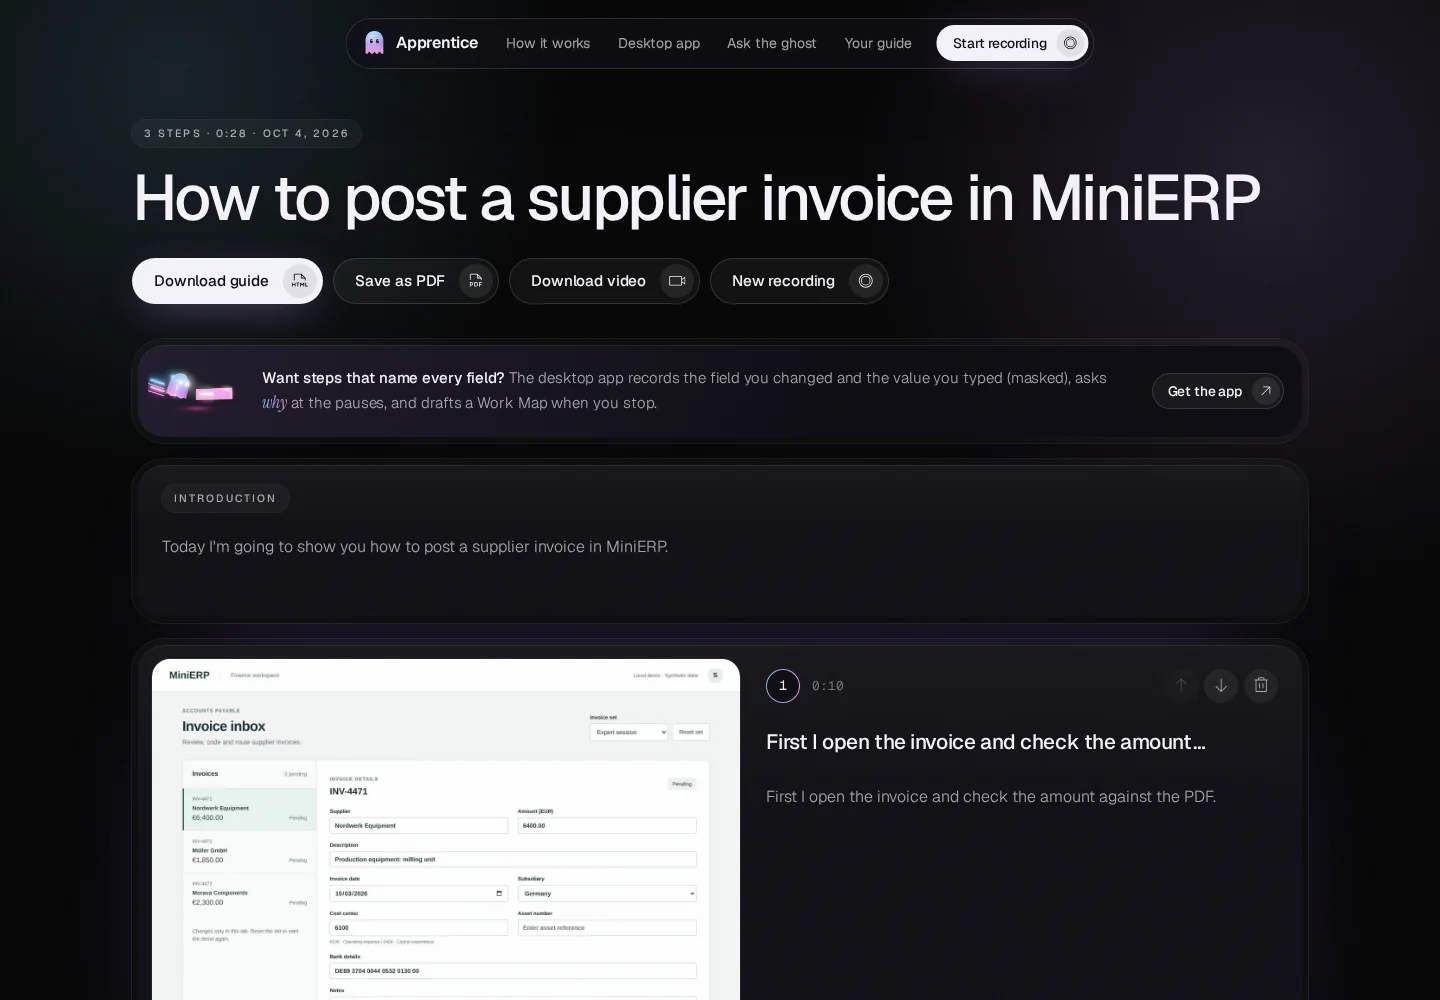
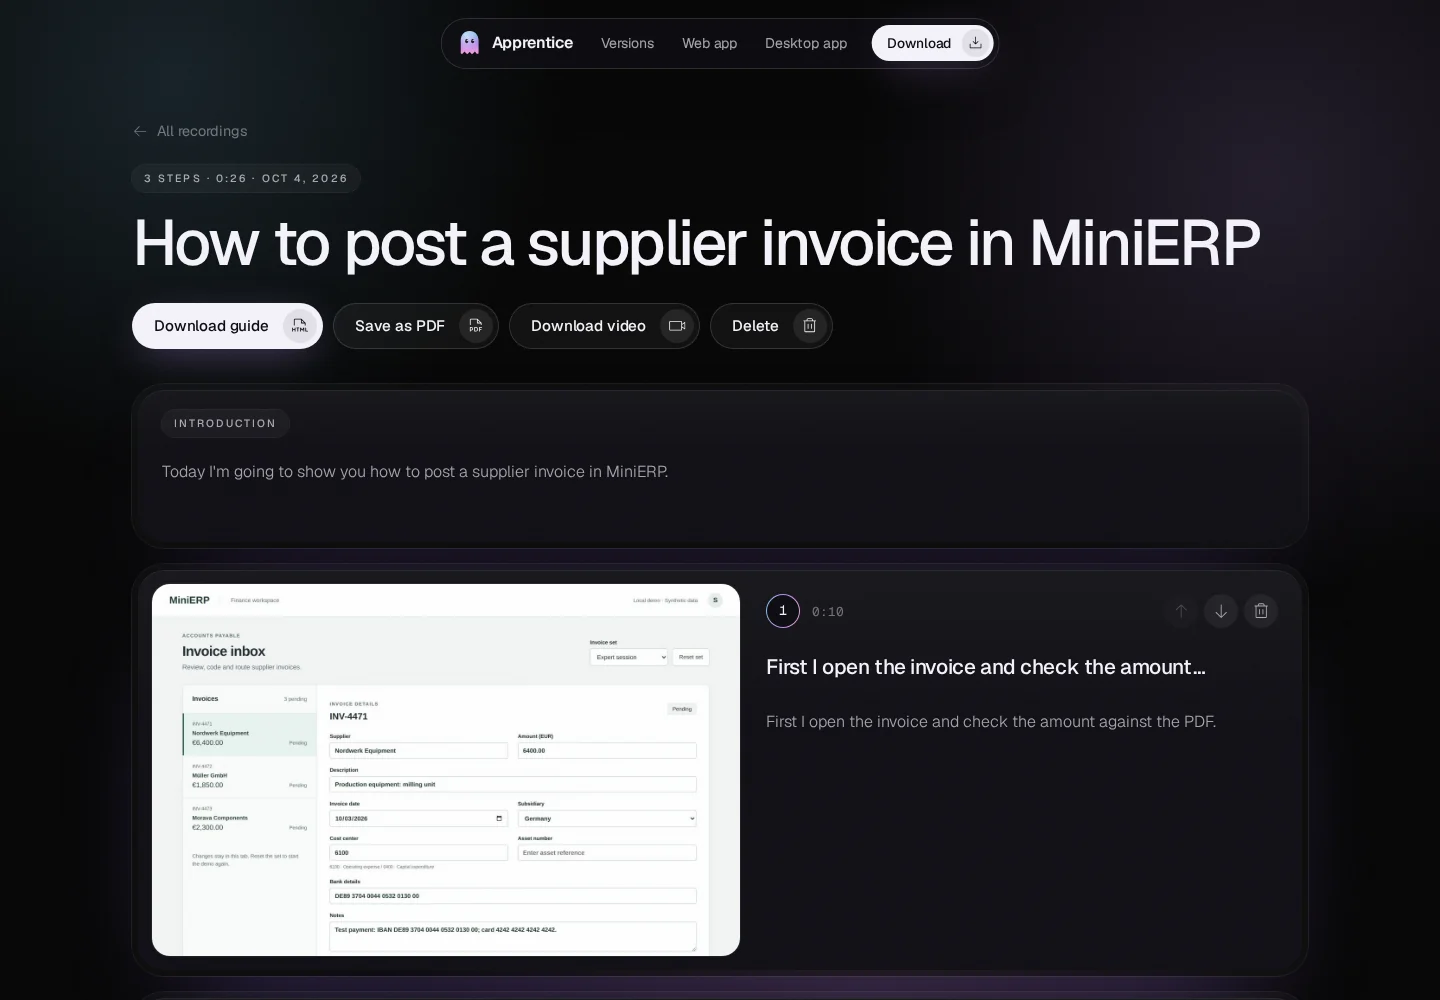
docs: README and status for the Kickstart flow and the new agent tools
Claude-Session: https://claude.ai/code/session_01SDNva6W46X8J2TXJH2Ka4E

diff --git a/README.md b/README.md
@@ -157,11 +157,29 @@ The button already points at `downloads/Apprentice-Windows.zip`, a file next to 
 
 ## The website
 
-[`web/`](web) is a static site: plain HTML, CSS and JavaScript with no build step. It's the landing page, a web recorder, and the voice agent.
+[`web/`](web) is a static site: plain HTML, CSS and JavaScript with no build step.
 
-- **Record:** one click picks a window. It keeps a screenshot whenever the screen changes, records your voice into a video and writes down what you say. The first ten seconds are for your introduction.
-- **Guide:** edit titles, reorder or delete steps, then download one HTML file, print a PDF, or download the video. Everything stays in the browser; nothing is uploaded.
-- **Ask the ghost:** an ElevenLabs voice agent explains what the desktop app adds and scrolls the page to whatever it's talking about.
+1. **Kickstart.** The front page is the ghost and one button. Press **Kickstart** and the ghost starts talking.
+2. **Choose.** It explains the two versions side by side and recommends the desktop app, which has the glowing border:
+   - **Web app:** records your screen and voice, takes a screenshot whenever the screen changes, and writes down what you say.
+   - **Desktop app:** sees what you're doing in real time (every field, click and typed value, masked), asks why at the pauses, and keeps learning.
+3. **Overview.** Whichever you pick, the ghost gives a short overview of that version.
+4. **Then:**
+   - **Web app:** the dashboard opens. Start a recording, then open, edit, download or delete your guides.
+   - **Desktop app:** the page shows the download button and the three install steps.
+
+<table>
+  <tr>
+    <td width="50%"><img src="docs/images/website-choose.webp" alt="Choosing between the web app and the desktop app" /></td>
+    <td width="50%"><img src="docs/images/web-dashboard.webp" alt="The web app dashboard" /></td>
+  </tr>
+  <tr>
+    <td align="center"><sub>After Kickstart: the two versions, desktop recommended</sub></td>
+    <td align="center"><sub>The web app dashboard: every recording becomes a guide</sub></td>
+  </tr>
+</table>
+
+Recordings stay in the browser (IndexedDB). Nothing is uploaded.
 
 **Run it locally** (screen sharing needs `localhost` or `https`):
 
@@ -186,44 +204,47 @@ Every push to `main` redeploys automatically. All three serve HTTPS, which scree
 The desktop app uses three ElevenLabs agents (Interviewer, Debrief, Tutor). Their prompts, first messages and tools are in [`app/src/renderer/agents/README.md`](app/src/renderer/agents/README.md).
 
 <details>
-<summary><b>The website agent ("Ask the ghost")</b></summary>
+<summary><b>The website agent (Kickstart and "Ask the ghost")</b></summary>
 
-Without an agent, the website's button plays a short preview in the browser's own voice. To put the real ElevenLabs agent there:
+Without an agent, Kickstart plays a short tour in the browser's own voice: it highlights the two versions while it talks, and narrates whichever one you pick. To put the real ElevenLabs agent there:
 
 1. In the ElevenLabs dashboard, open **Agents → Create agent → Blank agent**. Name it *Apprentice website*.
-2. **First message:** `Hi, I'm the apprentice. Want to know what the desktop app can do that this page can't?`
+2. **First message:** `Hi, I'm the apprentice. I learn how your experts work and teach it to whoever comes next. You can use me online, or download me for Windows. Want me to explain the difference?`
 3. **System prompt:**
 
    ```text
-   You are the Apprentice ghost on the Apprentice website. Visitors are deciding whether to download
-   the desktop app. Be warm and brief: two or three short sentences per turn, then let them talk.
+   You are the Apprentice ghost, the guide on the Apprentice website. The visitor pressed Kickstart.
+   The page now shows two options side by side: the web app on the left and the desktop app on the
+   right, which is recommended. Be warm and brief: two or three short sentences per turn.
 
-   What you know:
-   - The web recorder on this page records a window, keeps a screenshot whenever the screen changes,
-     writes down what the expert says and turns it into a step-by-step guide. It stays in the browser.
-   - A browser only sees pixels. The Windows desktop app reads every field through Windows
-     accessibility: field names, typed values (masked), button names; clicks and keys become steps.
-   - Privacy: password fields are never read. Card numbers, IBANs and API keys are masked on the
-     computer before anything is stored. Password managers, banking sites and private windows are
-     never watched. Ctrl+Shift+O goes off the record. Everything can be deleted in one click.
-   - While the expert works, the desktop app asks why at natural pauses, by voice, and turns the
-     answers into a Work Map of decisions and rules that the expert confirms.
-   - It keeps learning every app the team uses, as masked text only, so it knows the exceptions.
-   - For new hires, the ghost points at the right field and stops a mistake before it is saved.
-   - Download: Windows 10 or 11. Unzip and double-click start.bat. It needs Node.js 20+ and
+   Explain the two versions and recommend the desktop app:
+   - Web app: runs in the browser, nothing to install. It records the screen and the voice, takes a
+     screenshot whenever the screen changes and writes down what the expert says. It cannot see which
+     field changed or what was typed.
+   - Desktop app (Windows 10 or 11): sees what the expert does in real time through Windows
+     accessibility (field names, typed values masked, clicks and keys), asks why at natural pauses
+     by voice, builds a Work Map of the rules, keeps learning every app 24/7 and coaches new hires,
+     pointing at the right field and stopping mistakes before they are saved.
+   - Privacy: password fields are never read; cards, IBANs and keys are masked on the computer;
+     password managers, banking sites and private windows are never watched; Ctrl+Shift+O goes off
+     the record; everything can be deleted.
+   - Install: download the zip, unzip it, double-click start.bat. It needs Node.js 20+ and
      Python 3.11+ and installs the rest the first time.
 
    Tools:
-   - When you talk about part of the page, call show_section with one of:
-     how, desktop, compare, teach, privacy, download.
-   - When someone wants to download, call highlight_download and say the button is highlighted.
+   - show_options: bring the two options back on screen.
+   - highlight_download: highlight the desktop app (or its download button) when you recommend it.
+   - open_mode with mode "web" or "desktop": open that version when the visitor chooses.
 
+   Messages in [square brackets] come from the website, not the visitor: they say what the visitor
+   just clicked. Answer them out loud as asked.
    Never invent features or prices. If you don't know, say so. Never ask for personal data.
    ```
 
-4. **Tools → Add tool → Client tool**, twice. Tick *Wait for response* on both:
-   - `show_section`: "Scrolls the website to a section and highlights it." One parameter, `section` (string, required): `how`, `desktop`, `compare`, `teach`, `privacy` or `download`.
-   - `highlight_download`: "Scrolls to the download section and pulses the Download button." No parameters.
+4. **Tools → Add tool → Client tool**, three times. Tick *Wait for response* on each:
+   - `show_options`: "Shows the web app and desktop app options side by side." No parameters.
+   - `highlight_download`: "Highlights the recommended desktop app, or its download button." No parameters.
+   - `open_mode`: "Opens one version's overview." One parameter, `mode` (string, required): `web` or `desktop`.
 5. **Security:** leave authentication off (a static site can't sign requests), and add your website's domain to the allowlist so other sites can't use your agent.
 6. Copy the agent ID (Agent settings, or the end of the agent's URL) into `web/config.js` as `elevenLabsAgentId`, then commit and push.
 

diff --git a/docs/STATUS.md b/docs/STATUS.md
@@ -26,7 +26,7 @@ $env:OBSERVER_FAKE="..\fixtures\expert-session.jsonl"; npm run dev   # replay a 
 | **Shell, voice, ghost** | Overlay ghost with states and pointer, panel, pop-ups (teach this app, a11y blind, warnings, curiosity), ElevenLabs Interviewer / Debrief / Tutor with client tools, hotkeys | `app/src/main/services/{windows,session,gate,tts,hotkeys,popups}.ts`, `app/src/renderer/{overlay,panel,mascot,agents}` |
 | **First run, Company profile** | Company and role (used as `{{role}}`); welcome panel; a **Company profile** button in the header opens Company (role, what the apprentice knows, privacy at a glance, how onboarding works), Privacy, Memory and App profiles | `settings.ts`, `dashboard/index.tsx`, `dashboard/CompanyPage.tsx` |
 | **Listen first** | The Interviewer opens without a question; the gate asks nothing until the expert has talked or worked for 10 s (`GATE_WARMUP_S`), and tells the agent to listen to the introduction | `gate.ts`, `session.ts` |
-| **Website** | Static site, no build: landing page with 3D renders, one-click web recorder (screenshot on every screen change, voice into a video, speech-to-text next to each step, 10 s introduction), guide editor with HTML / PDF / video export, web vs desktop comparison, "Ask the ghost" ElevenLabs voice agent (browser-voice preview until an agent id is set), download section served from `web/downloads/` | `web/`, `scripts/make-download.*`, `start.bat`; setup in the root `README.md` |
+| **Website** | Static site, no build. Front page: the 3D ghost and a Kickstart button; Kickstart starts the ghost's voice (ElevenLabs agent, or a browser-voice tour until an agent id is set) and shows web app vs desktop app side by side, desktop recommended. Each has a short spoken overview, then the web dashboard (recordings list, one-click recording with a 10 s introduction, screenshots on screen change, speech-to-text, guide editor, HTML / PDF / video export) or the download (zip served from `web/downloads/`) | `web/`, `scripts/make-download.*`, `start.bat`; setup in the root `README.md` |
 
 **Without a model:** the Work Map is drafted from the guide and the expert's answers; corrections become the step's reason; the guardrail checker uses a local rule (the value the expert corrected away from, plus the step's topic on screen and any amount threshold); App Profiles are built from the log itself; Polish removes repeated switches and empty-page clicks; the mastery summary is counted; question picking already had a local fallback.
 
